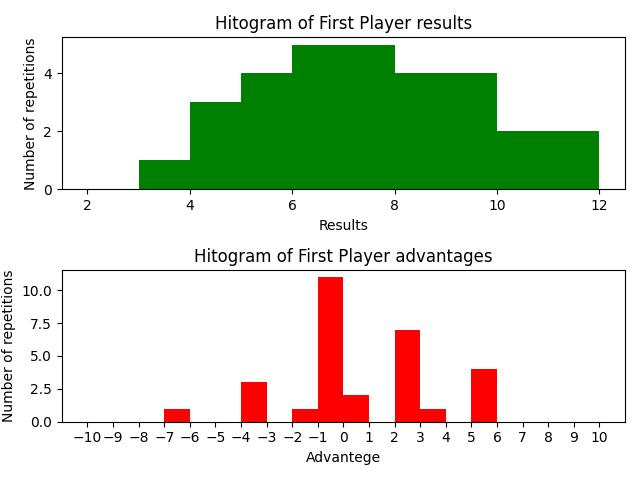
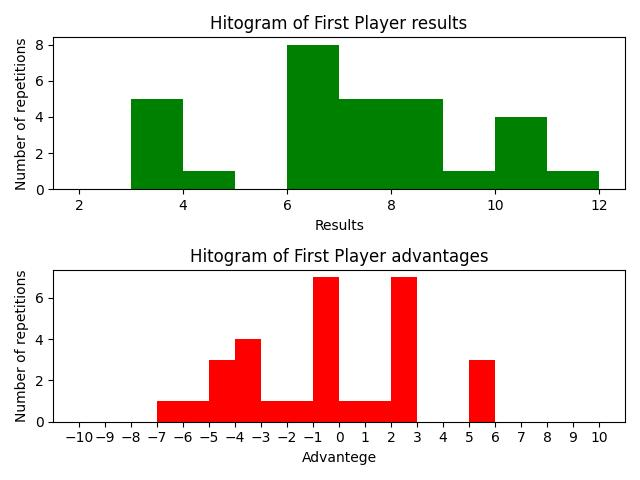
synchro

diff --git a/first/archers.py b/first/archers.py
@@ -1,4 +1,4 @@
-from first.generators.prand import Generators
+from generators.prand import LCG
 from scipy import stats
 import matplotlib.pyplot as plt
 from numpy import random as ran
@@ -6,6 +6,9 @@ import numpy as np
 from collections import Counter
 import math
 import statistics
+from time import sleep, time
+from scipy.stats import chisquare
+
 # TODO: dodaj test dla średnich 
 # TODO: dodaj punktowanie za strzał
 class Archers:
@@ -55,6 +58,150 @@ class Archers:
         print(temp)
         
 
-if __name__ == "__main__":
-    test = Archers()
-    test.simulate()
+def archery(rounds: int = 10, size: int = 1220) -> dict:
+    debug_x = []
+    debug_y = []
+    archer1_data = {'scores': [], 'points': [], 'distances': []}
+    archer2_data = {'scores': [], 'points': [], 'distances': []}
+    for _ in range(rounds):
+        p = LCG()
+        archer1_score, archer2_score = 0, 0
+        radius = size * 0.5
+
+        # archer1
+        # dist = p.uniform_restricted(-1000, 1000)  # (0, 1000)
+        # angle = p.uniform_range(0, 2 * math.pi)
+        # x, y = dist * math.cos(angle), dist * math.sin(angle)
+
+
+        # FIXME: PUNKTY X I Y UKLADAJA SIE W LINIE PROSTA
+        _x = p.uniform_range(0, 122)
+        _y = p.uniform_range(0, 122)
+        debug_x.append(_x)
+        debug_y.append(_y)
+        dist = math.sqrt(_x ** 2 + _y ** 2)
+        archer1_score += 1 if abs(dist) <= radius else 0
+
+        archer1_data['points'].append((_x, _y))
+        archer1_data['scores'].append(archer1_score)
+        archer1_data['distances'].append(dist)
+
+        # archer2
+        # FIXME: PUNKTY X I Y UKLADAJA SIE W LINIE PROSTA
+        x = p.uniform_restricted(-900, 900)
+
+        y = p.uniform_restricted(-900, 900)
+
+        debug_x.append(x)
+        debug_y.append(y)
+        dist = math.sqrt(x ** 2 + y ** 2)
+        archer2_score += 1 if dist <= radius else 0
+
+        archer2_data['points'].append((x, y))
+        archer2_data['scores'].append(archer2_score)
+        archer2_data['distances'].append(dist)
+
+    archers_data = {'archer1': archer1_data, 'archer2': archer2_data}
+
+    dataset = list(Counter(debug_x).values())
+
+    # dist, pvalue = chisquare(dataset)
+    # uni = 'YES' if pvalue > 0.05 else 'NO'
+    # print(f"{dist:12.3f} {pvalue:12.8f} {uni:^8}")
+
+    plt.scatter(debug_x, debug_y)
+    plt.savefig('archers_deb.jpg')
+
+    return archers_data
+
+
+if __name__ == '__main__':
+    import numpy as np
+
+    fig, ax = plt.subplots()
+    points_archer1 = []
+    points_archer2 = []
+    dists_archer1 = []
+    dists_archer2 = []
+    score_archer1 = 0
+    score_archer2 = 0
+    for _ in range(20):
+        result = archery()
+        dists_archer1 += result['archer1']['distances']
+        dists_archer2 += result['archer2']['distances']
+        points_archer1 += result['archer2']['points']
+        points_archer2 += result['archer1']['points']
+        score_archer1 += sum(result['archer1']['scores'])
+        score_archer2 += sum(result['archer2']['scores'])
+
+    print(sum(dists_archer2) / len(dists_archer2))  # 500 * sqrt(2)
+    print(sum(dists_archer1) / len(dists_archer1))  # 500
+    print('---')
+    print(score_archer1, score_archer2)
+
+    ax.scatter(*zip(*points_archer2), alpha=0.5)
+    ax.scatter(*zip(*points_archer1), alpha=0.5)
+    ax.set_xticks(np.arange(-1000, 1001, 250))
+    ax.set_yticks(np.arange(-1000, 1001, 250))
+    target = plt.Circle((0, 0), 660, color='green', fill=False, linewidth=2.5)
+    ax.add_patch(target)
+    ax.set_aspect('equal', adjustable='box')
+    plt.tight_layout()
+    plt.savefig('archers_scatter_debug.jpg')
+
+
+
+
+
+
+
+
+
+
+
+
+
+
+
+
+
+
+
+
+
+
+
+
+
+    # test = Archers()
+    # test.simulate()
+    # fig, ax = plt.subplots()
+    # points_archer1 = []
+    # points_archer2 = []
+    # dists_archer1 = []
+    # dists_archer2 = []
+    # score_archer1 = 0
+    # score_archer2 = 0
+    # for _ in range(20):
+    #     result = archery()
+    #     dists_archer1 += result['archer1']['distances']
+    #     dists_archer2 += result['archer2']['distances']
+    #     points_archer1 += result['archer2']['points']
+    #     points_archer2 += result['archer1']['points']
+    #     score_archer1 += sum(result['archer1']['scores'])
+    #     score_archer2 += sum(result['archer2']['scores'])
+
+    # print(sum(dists_archer2) / len(dists_archer2))  # 500 * sqrt(2)
+    # print(sum(dists_archer1) / len(dists_archer1))  # 500
+    # print('---')
+    # print(score_archer1, score_archer2)
+
+    # ax.scatter(*zip(*points_archer2))
+    # ax.scatter(*zip(*points_archer1))
+    # ax.set_xticks(np.arange(-1000, 1001, 250))
+    # ax.set_yticks(np.arange(-1000, 1001, 250))
+    # target = plt.Circle((0, 0), 660, color='green', fill=False, linewidth=2.5)
+    # ax.add_patch(target)
+    # ax.set_aspect('equal', adjustable='box')
+    # plt.tight_layout()
+    # plt.savefig('z4.jpg')

diff --git a/first/generators/prand.py b/first/generators/prand.py
@@ -17,21 +17,69 @@ class LCG:
 
     def __seed(self):
         """Seed generator using system time"""
-        time.sleep(0.001)
         self.seed = round(datetime.now().timestamp()*10009)
+        # print("Generating seed ..." + str(self.seed))
 
     def generate(self):
         self.__seed()
+        time.sleep(0.001)
+        # print(self.seed)
         return (self.a*self.seed + self.c) % self.m
 
     def uniform(self):
-        return self.generate() / self.m
+        temp = self.generate() / self.m
+        return temp
 
     def uniform_range(self, start: float, end: float):
-        return (end - start) * self.uniform() + self.a
+        # generates random float
+        temp = (end - start) * self.uniform() + start
+        print(str(temp) + " <" + str(self.seed) + ">")
+        return temp
     
     def uniform_restricted(self, start: float, end: float):
-        return math.floor(abs(1 + end - start) * self.uniform() + start)
+        # Generates random int value
+        temp = math.floor(abs(1 + end - start) * self.uniform() + start)
+        # print(str(temp) + " <" + str(self.seed) + ">")
+        return temp
+
+
+class LCG_CLS:
+    "LCG generator implemented using classmethods"
+    seed = int(datetime.now().timestamp() * 10003)
+    x = seed
+    a = 22695477
+    c = 1
+    m = 2 ** 32
+
+    @classmethod
+    def _seed(cls, seed: int) -> None:
+        cls.seed = seed
+        cls.x = seed
+
+    @classmethod
+    def generate(cls) -> int:
+        cls.x = (cls.a * cls.x + cls.c) % cls.m
+        return cls.x
+
+    @classmethod
+    def uniform(cls) -> float:
+        # [0, 1)
+        return cls.generate() / cls.m
+
+    @classmethod
+    def uniform_range(cls, a: float, b: float) -> float:
+        # [a, b)
+        return (b - a) * cls.uniform() + a
+
+    @classmethod
+    def uniform_int(cls, a: int, b: int) -> int:
+        # [a, b]
+        return math.floor(abs(b - a + 1) * cls.uniform() + a)
+    # def uniform_int_restricted(self, start: float, end: float):
+        # return math.floor(abs(1 + end - start) * self.uniform() + start)
+
+
+
 
     # def generate(self):
     #     while True:
@@ -54,19 +102,31 @@ class LCG:
 
 if __name__ == "__main__":
     p = LCG()
-    # ucl = p.unifrom_restricted(1, 3)
-    temp = []
     for _ in range(100):
-        temp.append(p.uniform_restricted(1, 3))
+        print(p.uniform_restricted(0, 2*math.pi))
+    # temp = []
+    # for _ in range(100):
+    #     temp.append(p.uniform_restricted(1, 3))
 
-    dataset = list(Counter(temp).values())
+    # dataset = list(Counter(temp).values())
 
-    plt.hist(temp, bins=3)
-    plt.savefig('./test.jpg')
+    # plt.hist(temp, bins=3)
+    # plt.savefig('./test.jpg')
 
-    dist, pvalue = chisquare(dataset)
-    uni = 'YES' if pvalue > 0.05 else 'NO'
-    print(f"{dist:12.3f} {pvalue:12.8f} {uni:^8}")
+    # dist, pvalue = chisquare(dataset)
+    # uni = 'YES' if pvalue > 0.05 else 'NO'
+    # print(f"{dist:12.3f} {pvalue:12.8f} {uni:^8}")
+
+    # x = []
+    # y = []
+    # for _ in range(100):
+    #     x.append(p.uniform_restricted(1, 1000))
+
+    # for _ in range(100):
+    #     y.append(p.uniform_restricted(1, 1000))
+
+    # plt.scatter(x, y)
+    # plt.savefig('gen_scatter.jpg')
     
 
 
